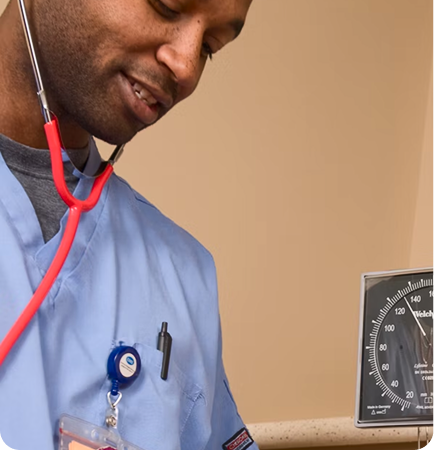
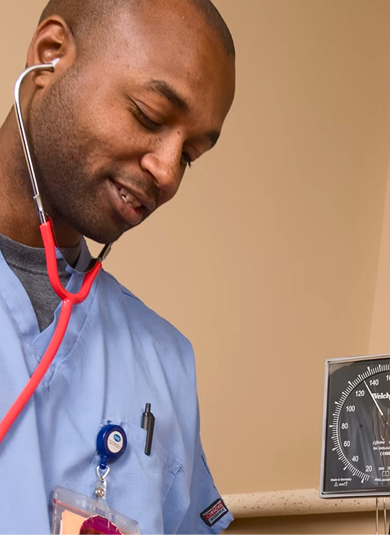
add animations

diff --git a/src/animations/parallaxAppearance.js b/src/animations/parallaxAppearance.js
@@ -1,0 +1,57 @@
+/**
+ * Parallax-появление: trigger = сам элемент, stagger через fromY (без delay — старт при входе).
+ */
+
+export function parallaxAppearance() {
+  if (typeof window === 'undefined' || !window.gsap || !window.ScrollTrigger) return;
+
+  const gsap = window.gsap;
+  const stDefaults = { start: 'top bottom', end: 'top center', scrub: 1 };
+  const TWEEN_DURATION = 2;
+
+  function animateItem(el, fromY, opacityDuration = 1) {
+    gsap.set(el, { opacity: 0, y: fromY });
+    const tl = gsap.timeline({
+      scrollTrigger: { trigger: el, ...stDefaults },
+    });
+    tl.to(el, { opacity: 1, duration: opacityDuration }, 0);
+    tl.to(el, { y: 0, duration: TWEEN_DURATION }, '<');
+  }
+
+  // fromY растёт по индексу в ряду → визуальный stagger, анимация стартует при входе (top bottom)
+  const BASE_Y = 50;
+  const BASE_Y_INFRA_NEWS = 15;
+  const STAGGER_Y = 25;
+
+  // const BASE_BTN_Y = 0;
+  // const STAGGER_BTN_Y = 0;
+
+  const SERVICES_COLUMNS = 3;
+  const NEWS_COLUMNS = 3;
+  const INFRA_COLUMNS = 3;
+
+  const servicesSection = document.querySelector('.services');
+  if (servicesSection) {
+    servicesSection.querySelectorAll('.services__item').forEach((el, i) => {
+      const indexInRow = i % SERVICES_COLUMNS;
+      animateItem(el, BASE_Y + indexInRow * STAGGER_Y, 0.5);
+    });
+    // servicesSection.querySelectorAll('.services__btns .btn').forEach((el, i) => {
+    //   animateItem(el, BASE_BTN_Y + i * STAGGER_BTN_Y, 0.5);
+    // });
+  }
+
+  document.querySelectorAll('.infra__item').forEach((el, i) => {
+    animateItem(el, BASE_Y_INFRA_NEWS + (i % INFRA_COLUMNS) * STAGGER_Y);
+  });
+
+  const newsSection = document.querySelector('.news');
+  if (newsSection) {
+    newsSection.querySelectorAll('.news__item').forEach((el, i) => {
+      animateItem(el, BASE_Y_INFRA_NEWS + (i % NEWS_COLUMNS) * STAGGER_Y);
+    });
+    // newsSection.querySelectorAll('.news__more .btn').forEach((el, i) => {
+    //   animateItem(el, BASE_BTN_Y + i * STAGGER_BTN_Y);
+    // });
+  }
+}

diff --git a/src/animations/sectionClipReveal.js b/src/animations/sectionClipReveal.js
@@ -1,0 +1,58 @@
+/**
+ * Анимация обрезки секции сверху: clip-path от 5rem → 0.
+ * ScrollTrigger: start "bottom bottom", end "center center".
+ */
+
+export function sectionClipReveal() {
+  if (typeof window === 'undefined' || !window.gsap || !window.ScrollTrigger) return;
+
+  const gsap = window.gsap;
+  // const sections = document.querySelectorAll('.infra, .footer');
+  const sections = document.querySelectorAll('.footer');
+
+  sections.forEach((section) => {
+    // const isFooter = section.classList.contains('footer');
+    gsap.fromTo(
+      section,
+      { clipPath: 'inset(7rem 0px 0px 0px)' },
+      {
+        clipPath: 'inset(0px 0px 0px 0px)',
+        ease: 'none',
+        scrollTrigger: {
+          trigger: section,
+          start: 'top bottom',
+          end: 'bottom bottom',
+          scrub: 2,
+        },
+      }
+    );
+  });
+}
+
+// /**
+//  * Team: слой .team__bg (bottom: 100%, height: 7rem) при скролле
+//  * bottom bottom → bottom center клипается по высоте на 100%.
+//  */
+// export function teamClipReveal() {
+//   if (typeof window === 'undefined' || !window.gsap || !window.ScrollTrigger) return;
+
+//   const bg = document.querySelector('.team__bg');
+//   const team = document.querySelector('.team');
+//   if (!bg || !team) return;
+
+//   const gsap = window.gsap;
+//   gsap.fromTo(
+//     bg,
+//     { clipPath: 'inset(0 0 0 0)' },
+//     {
+//       clipPath: 'inset(0 0 100% 0)',
+//       ease: 'none',
+//       scrollTrigger: {
+//         trigger: team,
+//         start: 'bottom bottom',
+//         end: 'bottom 40%',
+//         scrub: 2,
+//       },
+//     }
+//   );
+// }

diff --git a/src/animations/index.js b/src/animations/index.js
@@ -3,6 +3,10 @@ import { headerWhite } from './headerWhite';
 import { sectionPin } from './sectionPin';
 import { initMobileMenu } from './mobileMenu';
 import { heroEntrance } from './heroEntrance';
+import { parallaxAppearance } from './parallaxAppearance';
+import { sectionClipReveal } from './sectionClipReveal';
+// import { teamClipReveal } from './sectionClipReveal';
+import { teamGallery } from './teamGallery';
 
 export { textLinesScript } from './textLines';
 
@@ -24,6 +28,11 @@ function runScrollTriggers() {
   }
   window.ScrollTrigger.refresh();
   headerWhite();
+  parallaxAppearance();
+  sectionClipReveal(); // только footer clip-path
+  // teamClipReveal();
+  if (document.querySelector('.team__wrap')) teamGallery();
+  if (document.querySelector('.calc')) calcCards();
   if (window.its_desktop) sectionPin();
   initMobileMenu();
   window.ScrollTrigger.refresh();

diff --git a/src/components/Team/Team.scss b/src/components/Team/Team.scss
@@ -1,7 +1,17 @@
 .team {
-
-
+    position: relative;
     background: var(--gray);
+
+    // &__bg {
+    //     position: absolute;
+    //     left: 0;
+    //     width: 100%;
+    //     top: 100%;
+    //     height: 7rem;
+    //     background: var(--gray);
+    //     pointer-events: none;
+    // }
+    
     padding-bottom: calc( var(--p-margin) / 1 );
     
     &__wrap {

diff --git a/src/components/Team/Team.js b/src/components/Team/Team.js
@@ -6,6 +6,7 @@ export default function Team(props) {
     const { subtitle, title, content, gallery } = props;
     return (
         <section className="team">
+            <div className="team__bg" aria-hidden="true" />
             <div className="center-wrap">
                 <div className="team__wrap white-header">
                         <div className="team__left">

diff --git a/src/animations/teamGallery.js b/src/animations/teamGallery.js
@@ -24,7 +24,7 @@ export function teamGallery() {
         trigger: teamWrap,
         start: 'center bottom',
         end: 'center center',
-        scrub: 1,
+        scrub: 2,
       },
     }
   );
